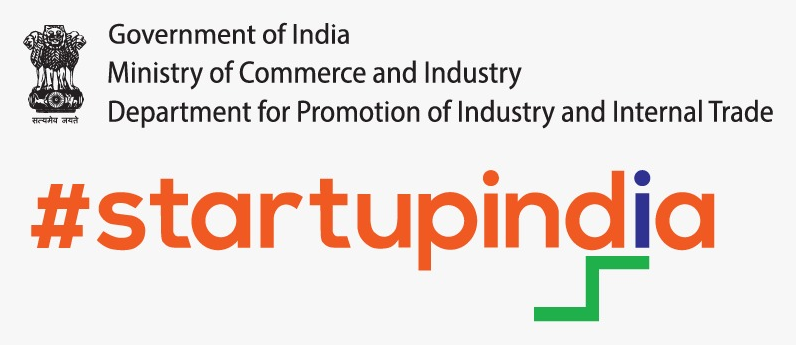
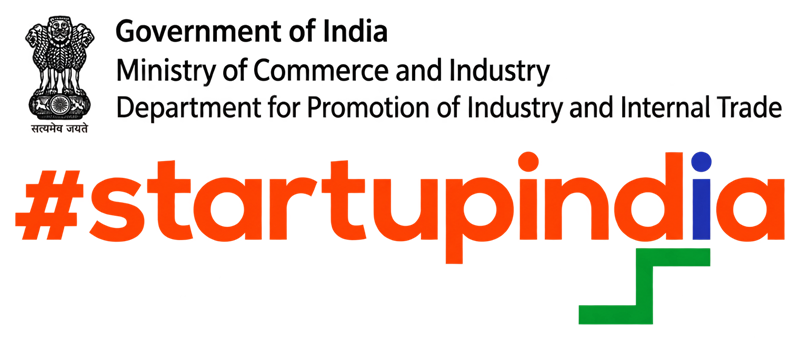
Replace the Startup India mark with a transparent-background export
Cropped to its alpha bounding box and downscaled 1520px to 800px
wide: the source was 1.2 MB, well past what an 80px-tall mark needs.
The result is 123 KB - smaller than the baked-white file it replaces
while carrying more detail.

Kept the transparency rather than flattening onto white; it
composites cleanly on the band with no halo at the antialiased
edges. Intrinsic dimensions updated to 800x340 to match.

Changed region(s): [[0.0, 0.4412, 0.995, 0.9706], [0.0302, 0.0294, 0.995, 0.4118]]

diff --git a/src/components/RecognitionStrip.tsx b/src/components/RecognitionStrip.tsx
@@ -23,8 +23,8 @@ const MARKS = [
   {
     src: "/images/startupindia-mark.png",
     alt: "#startupindia — Government of India, Ministry of Commerce and Industry",
-    width: 796,
-    height: 345,
+    width: 800,
+    height: 340,
   },
 ];
 

diff --git a/public/images/README.md b/public/images/README.md
@@ -5,6 +5,10 @@ previously reserved these paths are gone). The CSS renders them
 greyscale/single-colour per §5.7, so the source colours never show:
 
 - `dpiit-mark.png` — DPIIT recognition mark, trimmed to the crest's
-  bounding box from the wide source export so it fills the 26px chip
+  bounding box from the wide source export
 - `vnest-mark.png` — V-Nest Technology Business Incubator crest,
   margins trimmed from the source export
+- `startupindia-mark.png` — Startup India lockup. Transparent
+  background (the only one of the three), cropped to its alpha
+  bounding box and downscaled to 800px wide; the source export was
+  1536px and 1.2 MB, far past what an 80px-tall mark needs.
